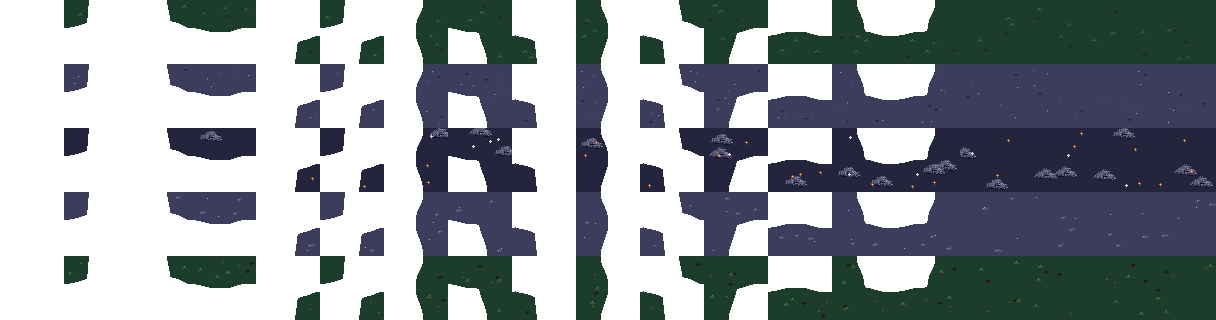
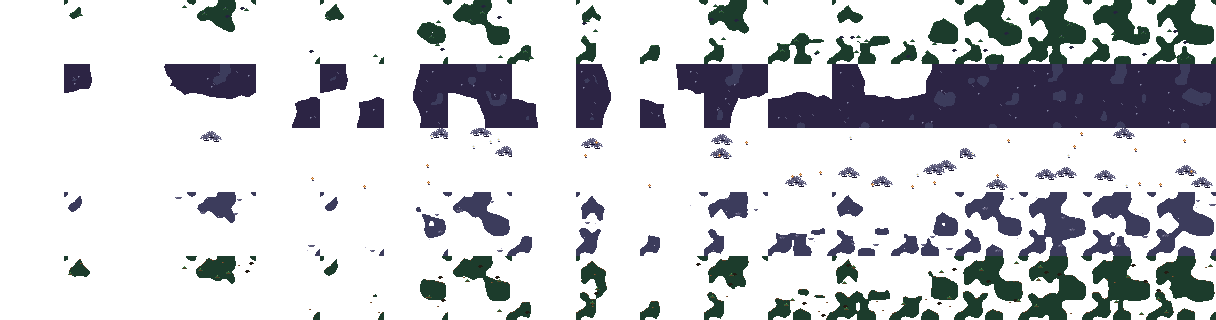
ground_patch.png soft pass: clumpy moss beds with ragged rims, worn earth a step darker (Environment Discussion)
The flat fills read as pasted-on blocks. Each patch is now clumps from a calm noise that wraps per tile (the grass
shows between them, pulling a patch toward the ground's value), with lit moss tops, and a 16 px ragged rim where
only the strongest clumps survive: no grid corners. A variant noise fades out at tile edges so full tiles differ.
Worn earth: solid Shade (was Dusk) with a few Dusk clumps. Act 3 litter thinner. Glade ring: the same, warm
Bark tops. Same layout (5 x 19), no code change.

diff --git a/Project_T/tools/environment_art/heartwood_grounds.html b/Project_T/tools/environment_art/heartwood_grounds.html
@@ -591,7 +591,7 @@ function pathDual(A, k) {
 // wobbled by noise that wraps every tile. Opaque inside, drawn over the plain grass. Calm, like grass.png: one flat
 // base a palette step from the Night ground, a few hand-placed features per tile, no grain.
 // Rows (kind): 0 deep moss, 1 worn earth, 2 fern / flower bed, 3 the act's accent, 4 the glade ring (deep moss, warmer).
-const PATCH = 64, PATCH_INSET = 4, PATCH_ROUND = 24, PATCH_D = new Map();
+const PATCH = 64, PATCH_INSET = 4, PATCH_ROUND = 24, PATCH_RIM_IN = 10, PATCH_RIM_OUT = 6, PATCH_D = new Map();
 function patchD(mask) {
   if (!PATCH_D.has(mask)) {
     const H = PATCH / 2, E = H, G = PATCH + E * 2, INF = 1e9, on = b => (mask & b) !== 0;
@@ -618,11 +618,23 @@ const HP = { Dread: "#140f26", Night: "#24243c", Shade: "#2c2444", Deepmoss: "#1
   Dewlight: "#9cd4fc", Slate: "#5c5a78", Stone: "#8c8cac", Mist: "#b4b0c8", Moonlight: "#dce8f4" };
 function groundPatch(A, kind, k) {
   const L = new Img(PATCH, PATCH), D = patchD(k > 15 ? 15 : k), s = SEED + 900 + kind * 97 + (k > 15 ? (k - 15) * 37 : k);
-  const act = A.n, base = [HP.Deepmoss, HP.Dusk, HP.Night, [HP.Deepmoss, HP.Deepmoss, HP.Root, HP.Dusk][act - 1], HP.Deepmoss][kind];
+  const act = A.n, base = [HP.Deepmoss, HP.Shade, HP.Night, [HP.Deepmoss, HP.Deepmoss, HP.Root, HP.Dusk][act - 1], HP.Deepmoss][kind];
+  // Soft pass (2026-10-04, Environment Discussion: the flat fills read as pasted-on blocks): the patch is
+  // clumps of 4-8 px from a calm noise (the grass shows between them, pulling it toward the ground's value),
+  // with a ragged rim PATCH_RIM px wide where only the strongest clumps survive: moss fingers and scattered
+  // clumps, no grid corners. The noise wraps per tile; a variant part fades to 0 at the tile's edges so mask-15
+  // tiles differ inside without seams. Worn earth is solid inside (Shade, a step under the old Dusk).
+  const w = (x, y) => Math.sin(Math.PI * (x + .5) / PATCH) * Math.sin(Math.PI * (y + .5) / PATCH);
+  const n = (x, y) => .6 * pnoise(x, y, 16, SEED + 940, 4) + .4 * pnoise(x, y, 8, SEED + 941, 8) + w(x, y) * (pnoise(x, y, 16, s + 942, 4) - .5) * .6;
+  const inner = [.46, -1, 2, act === 3 ? .5 : .46, .44][kind];  // the clump threshold deep inside (fern beds: no fill)
+  const inPatch = (x, y) => { const t = clamp((D(x, y) + PATCH_RIM_IN) / (PATCH_RIM_IN + PATCH_RIM_OUT), 0, 1); return n(x, y) > inner + (1.08 - inner) * t; };
   for (let y = 0; y < PATCH; y++) for (let x = 0; x < PATCH; x++) {
-    const d = D(x, y);
-    if (d < 0) L.set(x, y, base);  // a clean edge: the softness is in the slow wobble, not a dithered fringe
+    if (!inPatch(x, y)) continue;
+    const top = y > 0 && !inPatch(x, y - 1);  // a clump's lit upper edge (moss kinds only)
+    L.set(x, y, top && (kind === 0 || kind === 4 || (kind === 3 && act < 3)) && hash(x, y, s + 5) < .45 ? (kind === 4 ? HP.Bark : HP.Moss) : base);
   }
+  if (kind === 1) for (let y = 0; y < PATCH; y++) for (let x = 0; x < PATCH; x++)  // a few trodden Dusk clumps inside
+    if (L.alpha(x, y) && D(x, y) < -8 && n(x, y) > .7) L.set(x, y, HP.Dusk);
   // Features: hand-placed spots, only well inside (a tile at a patch's edge gets fewer).
   const spots = (n, inset, salt) => {
     const out = [];
@@ -682,7 +694,7 @@ function groundPatch(A, kind, k) {
     for (const [x, y] of spots(2, 6, 3)) L.set(x, y, HP.Mist);
   }
   // Clip anything a feature drew past the patch edge.
-  for (let y = 0; y < PATCH; y++) for (let x = 0; x < PATCH; x++) if (D(x, y) >= 0) L.d[(y * PATCH + x) * 4 + 3] = 0;
+  for (let y = 0; y < PATCH; y++) for (let x = 0; x < PATCH; x++) if (D(x, y) >= PATCH_RIM_OUT) L.d[(y * PATCH + x) * 4 + 3] = 0;
   return L;
 }
 // Drystone wall: wrapping Voronoi stones, moss from the season's grass.

diff --git a/Project_T/documentation/environment_assets.md b/Project_T/documentation/environment_assets.md
@@ -42,7 +42,7 @@ two trees pulse in step.
 | `grass.png` | 512×64 | 8 variants: 0 plain, 1/4/6 tufts, 2 flowers, 3 clover, 5 pebbles, 7 fallen twig | ground; any variant tiles with any other. Flat ground with a few hand-placed tufts and low moss clumps, no speckle (the AI-look audit, 2026-10-04: a random grain read as generated), through the calm detail pass. Shares: `GroundGenerator.GRASS_WEIGHTS` |
 | `path.png` | 1024×64 | 16 tiles, **column = neighbour mask** (N=1, E=2, S=4, W=8) | the creature path; e.g. column 5 = N+S straight, 15 = crossroads. Flat Path earth, a crisp wobbly Loam bank, a few pebbles and dark specks, the odd tuft over the bank (`paintPath`, shared with `path_rim` and `path_dual`; the AI-look audit replaced the speckle and the dithered edge) |
 | `path_dual.png` | 608×32 | **19 tiles of 32×32 in one row: 0–15 = corner mask** (the half cells at the tile's corners that are path: TL=1, TR=2, BR=4, BL=8), **16–18 = 3 more full tiles** (mask 15) to vary long stretches | the half-cell path (environment_assets.md "Half-cell grid"): a dual-grid autotile drawn on a layer offset 16 px from the half-cell grid. The pale earth fills every path half (one half = 32 px of earth, never thinner) and the Loam bank lies ~5 px outside it over the grass (4cfecb00); outer corners round off, inner corners are filleted, the diagonal masks 5 / 10 stay two separate corners; tiles join without seams. The same look as `path.png`, transparent outside the path |
-| `ground_patch.png` | 1216×320 | **5 rows (kind) × 19 tiles of 64×64**: row 0 deep moss, 1 worn earth, 2 fern / flower bed, 3 the act accent (act 1 clover, 2 night-bloom moss, 3 rust leaf litter, 4 frost crust), 4 the glade ring (deep moss, warmer: Root hollows, Bark / Oak bits). Columns 0–15 = corner mask (the cells at the tile's corners in the patch: TL=1, TR=2, BR=4, BL=8), 16–18 = 3 more full tiles (mask 15) | ground variation ("Ground variation", d91bfc4d): a dual-grid autotile on a layer offset 32 px from the cell grid, under the path, over the grass. Opaque inside, transparent outside; the edge is a distance field like `path_dual`'s (`patchD`: the patch quarters eroded 4 px, opened 24 px, a slow wobble that wraps per tile), so a lone cell is a round blob ~56 px across and a one-cell strip survives. Calm (no grain): one flat base a palette step from the Night ground (Deepmoss, Dusk, the ground itself under fern clumps, Root for act 3's litter, Dusk for act 4's frost) and a few hand-placed features per tile, only well inside. Worn earth (Dusk, L 0.37) stays far below the path (0.73) |
+| `ground_patch.png` | 1216×320 | **5 rows (kind) × 19 tiles of 64×64**: row 0 deep moss, 1 worn earth, 2 fern / flower bed, 3 the act accent (act 1 clover, 2 night-bloom moss, 3 rust leaf litter, 4 frost crust), 4 the glade ring (deep moss, warmer: Root hollows, Bark / Oak bits). Columns 0–15 = corner mask (the cells at the tile's corners in the patch: TL=1, TR=2, BR=4, BL=8), 16–18 = 3 more full tiles (mask 15) | ground variation ("Ground variation", d91bfc4d): a dual-grid autotile on a layer offset 32 px from the cell grid, under the path, over the grass. Opaque inside, transparent outside; the edge is a distance field like `path_dual`'s (`patchD`: the patch quarters eroded 4 px, opened 24 px, a slow wobble that wraps per tile), so a lone cell is a round blob ~56 px across and a one-cell strip survives. Soft pass: clumps of ~6–16 px from a calm noise that wraps per tile (the grass shows between them, so a patch sits near the ground's value), lit moss tops on the moss kinds, and a ragged rim 16 px wide where only the strongest clumps survive (no grid corners); a variant part fades out at tile edges so the full tiles differ. Bases a palette step from the ground: Deepmoss, worn earth solid Shade with a few Dusk clumps, fern clumps on the ground itself, Root litter (act 3), Dusk frost (act 4); a few hand-placed features per tile |
 | `path_rim.png` | 1024×64 | 16 tiles, **column = neighbour mask** like `path.png` | the path on the start and goal cells, which sit in the rim ring: the same path, transparent outside it (no grass border). Draw it over the matching `island_edge` tile so the rim's earth runs up to the path |
 | `border_wall.png` | 128×64 | 2 variants, seamless | the map's stone border |
 | `withered_tree.png` | 384×1152 | **96×128 cells** (bigger since 2026-09-30): the bottom 64 px rows, centred, are the cell (trunk base and shadow); the rest overhangs the cell above (64 px) and the sides (16 px each). Drawn from the 64 px designs with heights × 1.7 and widths × 1.3. 9 dead trees (rows) × 4 frames: 0–2 gnarled Withered Tree, 3 split trunk, 4 broken hollow snag (eyes glint), 5 weeping dead willow (strands sway), 6 dead pine, 7 dead birch, 8 thorn tree | obstacle, "Tend"; all 9 are in `tree.tres` |
